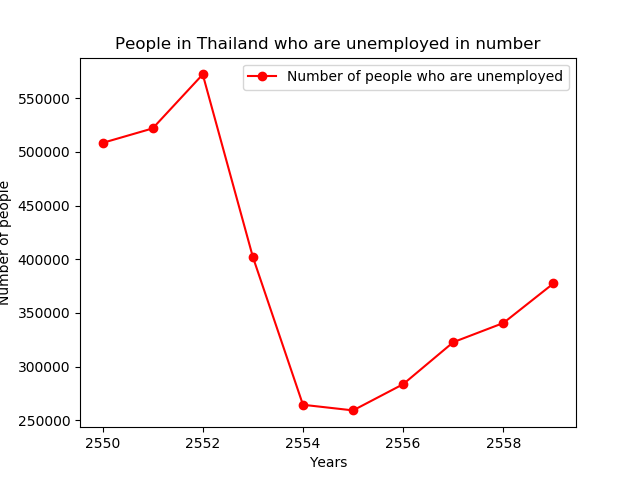
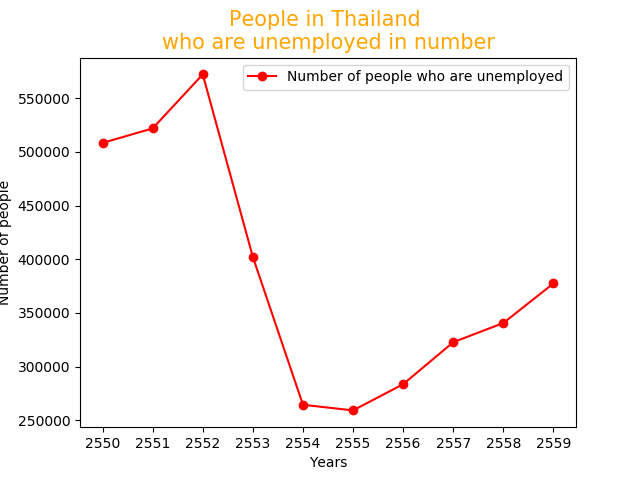
chang_figure 1,2 and add กราฟแท่ง อัตตราว่างงานตามวุฒที่จบ

diff --git a/graph_3.py b/graph_3.py
@@ -1,0 +1,26 @@
+"""Plot Graph to Show Unemployed people in Thailand"""
+
+import matplotlib.pyplot as plt
+def main():
+    """Plot graph from people in Thailand who are unemployed"""
+    x = range(10)
+    y_1 = [0.777, 0.767, 0.805, 0.51, 0.345, 0.355, 0.305, 0.405, 0.3, 0.42]
+    y_2 = [2.06, 2.16, 2.2575, 1.49, 0.93, 1.1975, 0.905, 1.175, 1.03, 1.246]
+    y_3 = [1.9725, 1.83, 1.88, 1.2475, 0.8025, 1.0825, 0.875, 0.9725, 1.13, 1.136]
+    y_4 = [1.91, 2.3625, 2.56, 1.61, 1.025, 1.22, 1.095, 1.1925, 1.136, 1.606]
+    y_5 = [2.915, 2.7825, 3.1525, 1.97, 1.33, 1.7625, 1.625, 1.307, 1.436, 1.63]
+    y_6 = [2.505, 2.34, 2.5425, 2.2975, 1.37, 1.69, 1.57, 1.54, 1.63, 1.45]
+    xtick = ("2550", "2551", "2552", "2553", "2554", "2555", "2556", "2557", "2558", "2559")
+    plt.xticks([4, 10, 16, 22, 28, 34, 40, 46, 52, 58], xtick)
+    plt.bar([1, 7, 13, 19, 25, 31, 37, 43, 49, 55], y_1, label="Partom or lower", width=0.5)
+    plt.bar([2, 8, 14, 20, 26, 32, 38, 44, 50, 56], y_2, label="MattayomTon", width=0.5)
+    plt.bar([3, 9, 15, 21, 27, 33, 39, 45, 51, 57], y_3, label="MattayomPly", width=0.5)
+    plt.bar([4, 10, 16, 22, 28, 34, 40, 46, 52, 58], y_4, label="R She Wa", width=0.5)
+    plt.bar([5, 11, 17, 23, 29, 35, 41, 47, 53, 59], y_5, label="Vichachep Kan Sung", width=0.5)
+    plt.bar([6, 12, 18, 24, 30, 36, 42, 48, 54, 60], y_6, label="Udomsuksa", width=0.5)
+    plt.title("EIEIZA", fontsize="15", color="orange")
+    plt.xlabel("Years")
+    plt.ylabel("Percent of people")
+    plt.legend()
+    plt.show()
+main()

diff --git a/graph_2.py b/graph_2.py
@@ -3,10 +3,12 @@
 import matplotlib.pyplot as plt
 def main():
     """Plot graph from people in Thailand who are unemployed"""
-    x = range(2550, 2560)
-    y = [0.9961, 1.0056, 1.0836, 0.7522, 0.4894, 0.4752, 0.5152, 0.5883, 0.6165, 0.6787]
+    x = range(10)
+    y = [1.376, 1.384, 1.489, 1.04, 0.679, 0.657, 0.71, 0.836, 0.88, 0.98]
+    xtick = ("2550", "2551", "2552", "2553", "2554", "2555", "2556", "2557", "2558", "2559")
+    plt.xticks(x, xtick)
     plt.plot(x, y, color="blue", marker="o", label=("Percentage of people who are unemployed"))
-    plt.title("People in Thailand who are unemployed in percentage")
+    plt.title("People in Thailand \nwho are unemployed in percentage", fontsize="15", color="orange")
     plt.xlabel("Years")
     plt.ylabel("Percent of people")
     plt.legend()

diff --git a/graph_1.py b/graph_1.py
@@ -3,10 +3,12 @@
 import matplotlib.pyplot as plt
 def main():
     """Plot graph from people in Thailand who are unemployed"""
-    x = range(2550, 2560)
+    x = range(10)
     y = [508475, 521980, 572336, 402181, 264339, 259094, 283520, 322675, 340561, 377466]
+    xtick = ("2550", "2551", "2552", "2553", "2554", "2555", "2556", "2557", "2558", "2559")
+    plt.xticks(x, xtick)
     plt.plot(x, y, color="red", marker="o", label=("Number of people who are unemployed"))
-    plt.title("People in Thailand who are unemployed in number")
+    plt.title("People in Thailand \nwho are unemployed in number", fontsize="15", color="orange")
     plt.xlabel("Years")
     plt.ylabel("Number of people")
     plt.legend()
